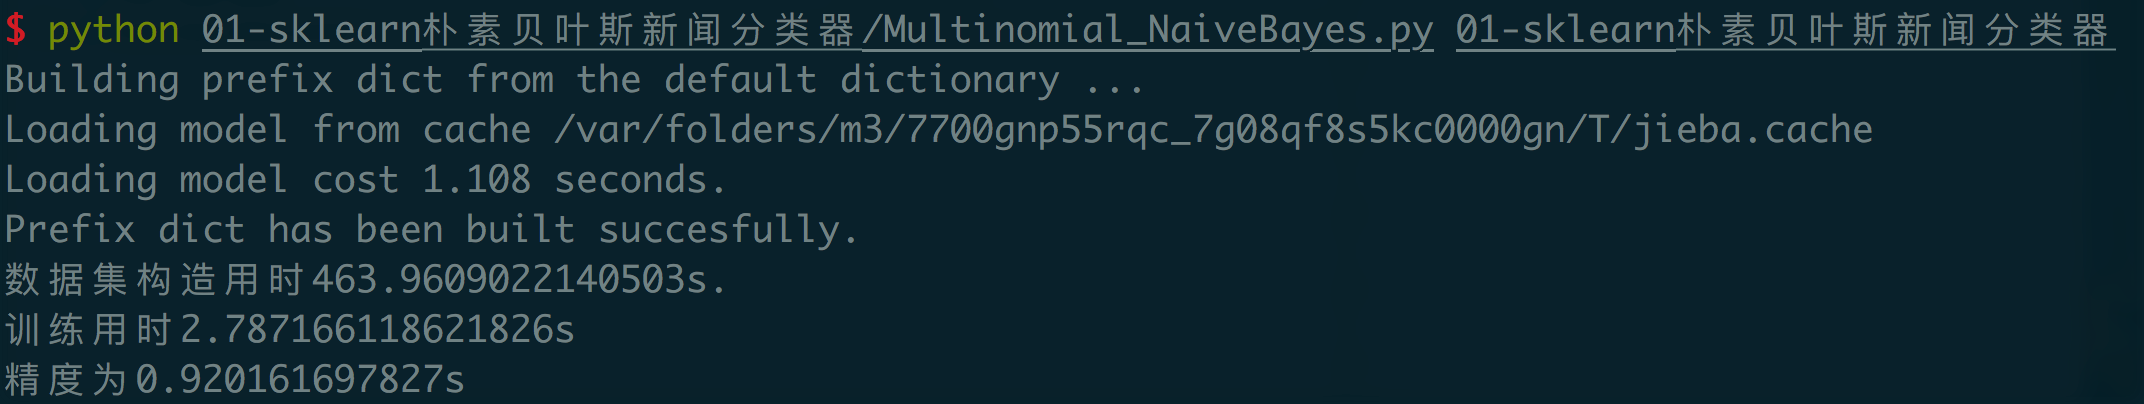
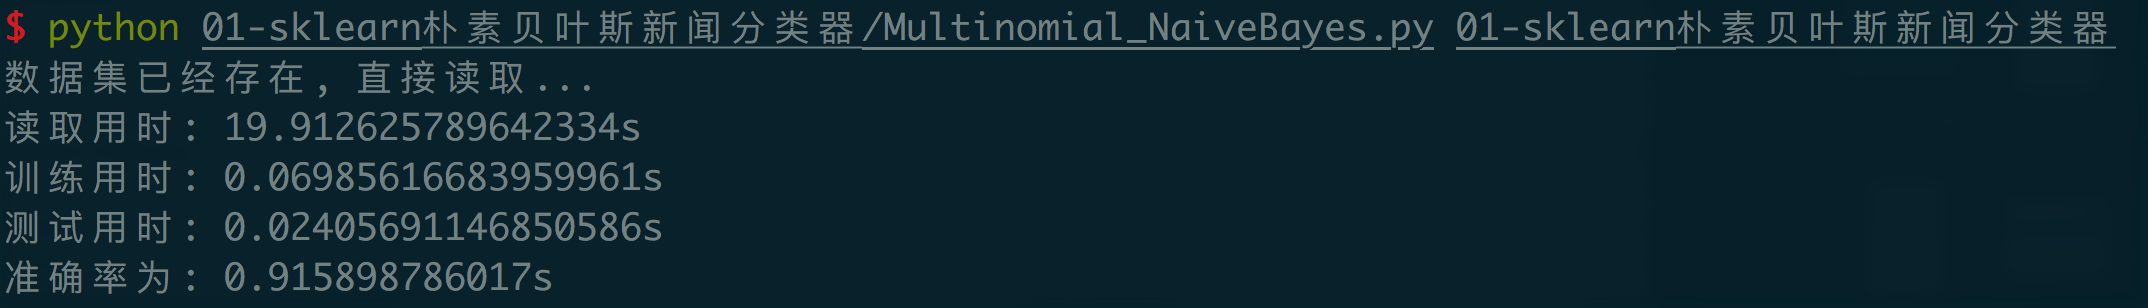
update 01

Changed region(s): [[0.0, 0.0292, 1.0, 0.4968], [0.0, 0.526, 0.4062, 0.9935]]

diff --git a/01-sklearn朴素贝叶斯新闻分类器/Multinomial_NaiveBayes.py b/01-sklearn朴素贝叶斯新闻分类器/Multinomial_NaiveBayes.py
@@ -4,6 +4,7 @@ import time
 import random
 import re
 import jieba
+import numpy as np
 from sklearn.naive_bayes import MultinomialNB
 from sklearn.externals import joblib
 
@@ -83,18 +84,49 @@ if __name__ == '__main__':
         save_path = sys.argv[1]
         if not os.path.exists(save_path):
             os.mkdir(save_path)
-        start_time = time.time()
-        train_data = words_extract('train_test_data/train')
-        test_data = words_extract('train_test_data/test')
-        feature_words = get_feature_words(train_data, size=1000, stopwords_file="stopwords.txt")
-        X_train, y_train, X_test, y_test = train_test_extract(train_data, test_data, feature_words)
-        print("数据集构造用时%ss." % str(time.time()-start_time))
+        if not (os.path.exists("X_train_multi.csv") and
+            os.path.exists("y_train_multi.csv") and
+            os.path.exists("X_test_multi.csv") and
+            os.path.exists("y_test_multi.csv")):
+            start_time = time.time()
+            train_data = words_extract('train_test_data/train')
+            test_data = words_extract('train_test_data/test')
+            feature_words = get_feature_words(train_data, size=1000, stopwords_file="stopwords.txt")
+            X_train, y_train, X_test, y_test = train_test_extract(train_data, test_data, feature_words)
+            print("数据集构造用时%ss." % str(time.time()-start_time))
+            np.savetxt("X_train_multi.csv", X_train, fmt='%i')
+            np.savetxt("X_test_multi.csv", X_test, fmt='%s')
+
+            with open("y_train_multi.csv", 'w') as f_obj:
+                for label in y_train:
+                    f_obj.write(label + '\n')
+
+            with open("y_test_multi.csv", 'w') as f_obj:
+                for label in y_test:
+                    f_obj.write(label + '\n')
+        else:
+            print("数据集已经存在, 直接读取...")
+            start_time = time.time()
+            X_train = np.genfromtxt("X_train_multi.csv")
+            X_test = np.genfromtxt("X_test_multi.csv")
+            y_train, y_test = [], []
+
+            with open("y_train_multi.csv", 'r') as f_obj:
+                y_train = f_obj.read().strip().split('\n')
+
+            with open("y_test_multi.csv", 'r') as f_obj:
+                y_test = f_obj.read().strip().split('\n')
+
+            print("读取用时: %ss" % str(time.time()-start_time))
 
         start_time = time.time()
         clf = MultinomialNB().fit(X_train, y_train)
+        print("训练用时: %ss" % (str(time.time()-start_time)))
+
+        start_time = time.time()
         test_accuracy = clf.score(X_test, y_test)
-        print("训练用时%ss" % (str(time.time()-start_time)))
-        print("精度为%ss" % str(test_accuracy))
+        print("测试用时: %ss" % (str(time.time()-start_time)))
+        print("准确率为: %ss" % str(test_accuracy))
 
         if not os.path.exists(os.path.join(save_path, 'Multinomial_NaiveBayes.pkl')):
             joblib.dump(clf, os.path.join(save_path, 'Multinomial_NaiveBayes.pkl'))

diff --git a/01-sklearn朴素贝叶斯新闻分类器/Bernoulli_NaiveBayes.py b/01-sklearn朴素贝叶斯新闻分类器/Bernoulli_NaiveBayes.py
@@ -4,6 +4,7 @@ import time
 import random
 import re
 import jieba
+import numpy as np
 from sklearn.naive_bayes import BernoulliNB
 from sklearn.externals import joblib
 
@@ -83,18 +84,49 @@ if __name__ == '__main__':
         save_path = sys.argv[1]
         if not os.path.exists(save_path):
             os.mkdir(save_path)
-        start_time = time.time()
-        train_data = words_extract('train_test_data/train')
-        test_data = words_extract('train_test_data/test')
-        feature_words = get_feature_words(train_data, size=1000, stopwords_file="stopwords.txt")
-        X_train, y_train, X_test, y_test = train_test_extract(train_data, test_data, feature_words)
-        print("数据集构造用时%ss." % str(time.time()-start_time))
+        if not (os.path.exists("X_train_multi.csv") and
+            os.path.exists("y_train_multi.csv") and
+            os.path.exists("X_test_multi.csv") and
+            os.path.exists("y_test_multi.csv")):
+            start_time = time.time()
+            train_data = words_extract('train_test_data/train')
+            test_data = words_extract('train_test_data/test')
+            feature_words = get_feature_words(train_data, size=1000, stopwords_file="stopwords.txt")
+            X_train, y_train, X_test, y_test = train_test_extract(train_data, test_data, feature_words)
+            print("数据集构造用时%ss." % str(time.time()-start_time))
+            np.savetxt("X_train_multi.csv", X_train, fmt='%i')
+            np.savetxt("X_test_multi.csv", X_test, fmt='%s')
+
+            with open("y_train_multi.csv", 'w') as f_obj:
+                for label in y_train:
+                    f_obj.write(label + '\n')
+
+            with open("y_test_multi.csv", 'w') as f_obj:
+                for label in y_test:
+                    f_obj.write(label + '\n')
+        else:
+            print("数据集已经存在, 直接读取...")
+            start_time = time.time()
+            X_train = np.genfromtxt("X_train_multi.csv")
+            X_test = np.genfromtxt("X_test_multi.csv")
+            y_train, y_test = [], []
+
+            with open("y_train_multi.csv", 'r') as f_obj:
+                y_train = f_obj.read().strip().split('\n')
+
+            with open("y_test_multi.csv", 'r') as f_obj:
+                y_test = f_obj.read().strip().split('\n')
+
+            print("读取用时: %ss" % str(time.time()-start_time))
 
         start_time = time.time()
         clf = BernoulliNB().fit(X_train, y_train)
+        print("训练用时: %ss" % (str(time.time()-start_time)))
+
+        start_time = time.time()
         test_accuracy = clf.score(X_test, y_test)
-        print("训练用时%ss" % (str(time.time()-start_time)))
-        print("精度为%ss" % str(test_accuracy))
+        print("测试用时: %ss" % (str(time.time()-start_time)))
+        print("准确率为: %ss" % str(test_accuracy))
 
         if not os.path.exists(os.path.join(save_path, 'Bernoulli_NaiveBayes.pkl')):
             joblib.dump(clf, os.path.join(save_path, 'Bernoulli_NaiveBayes.pkl'))
